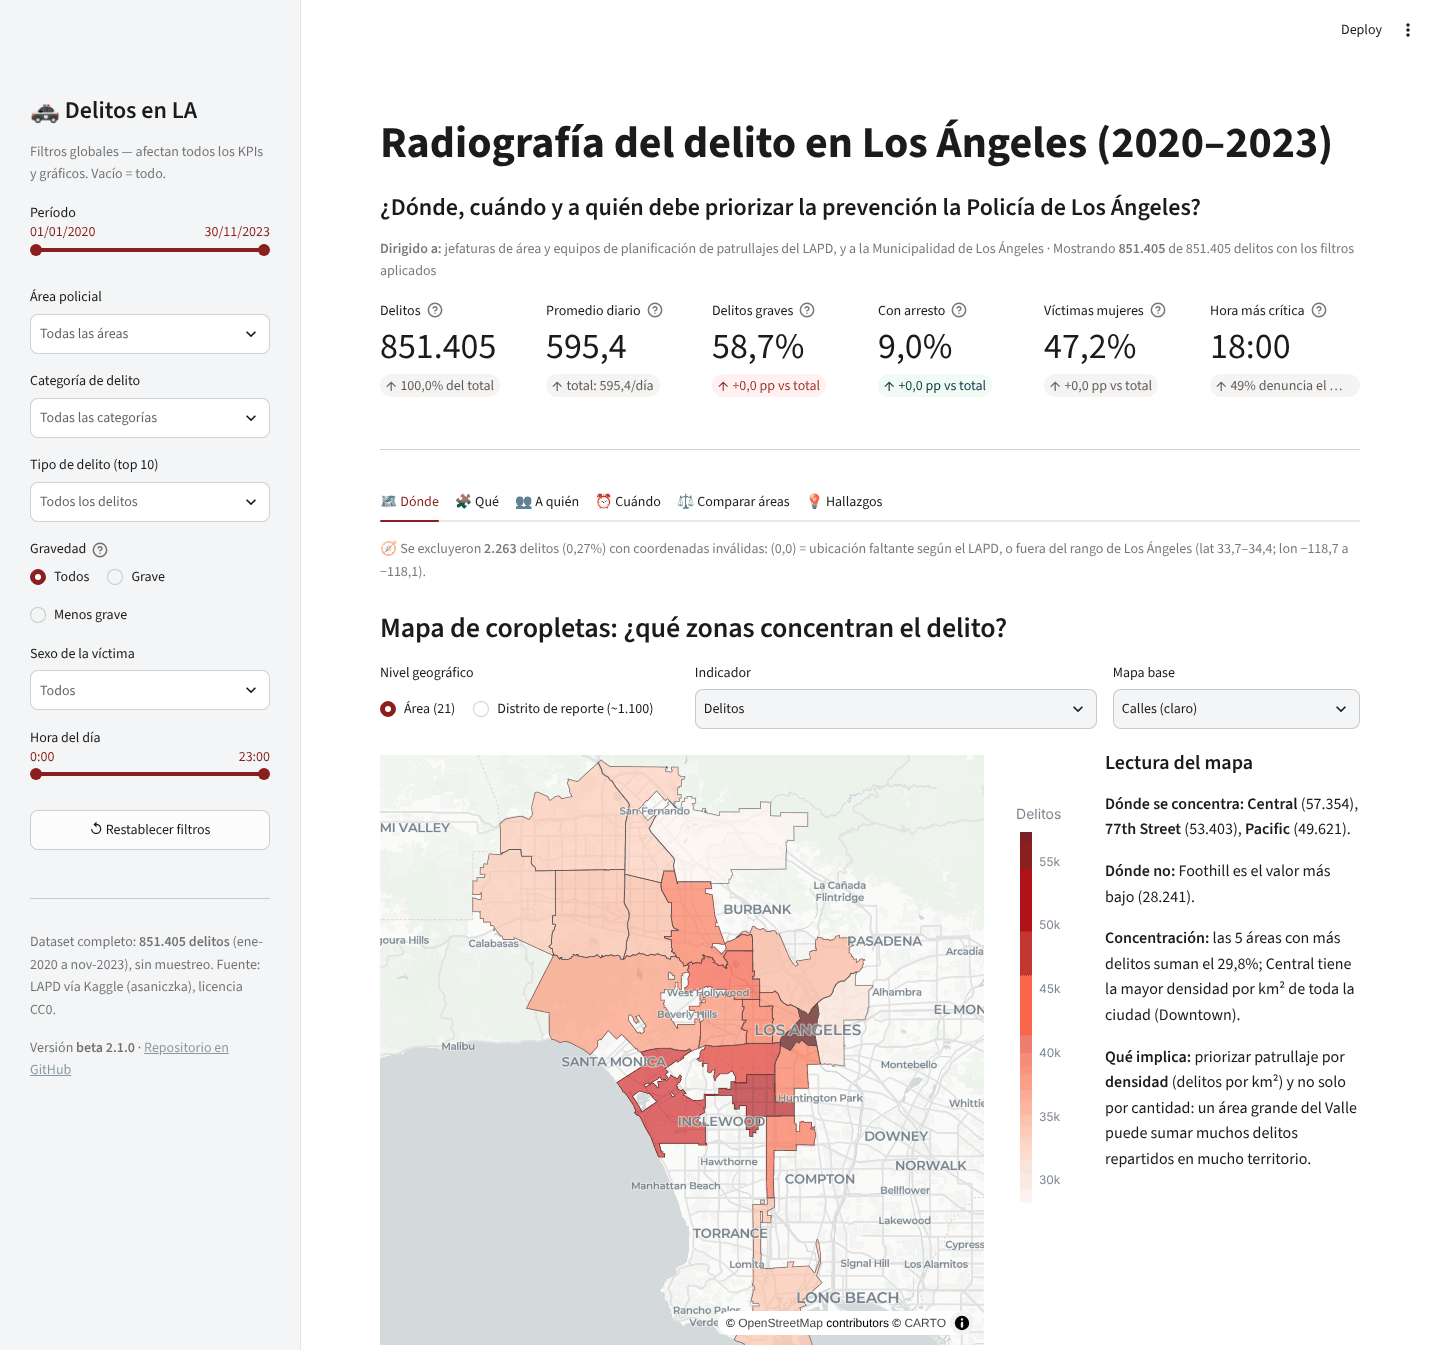
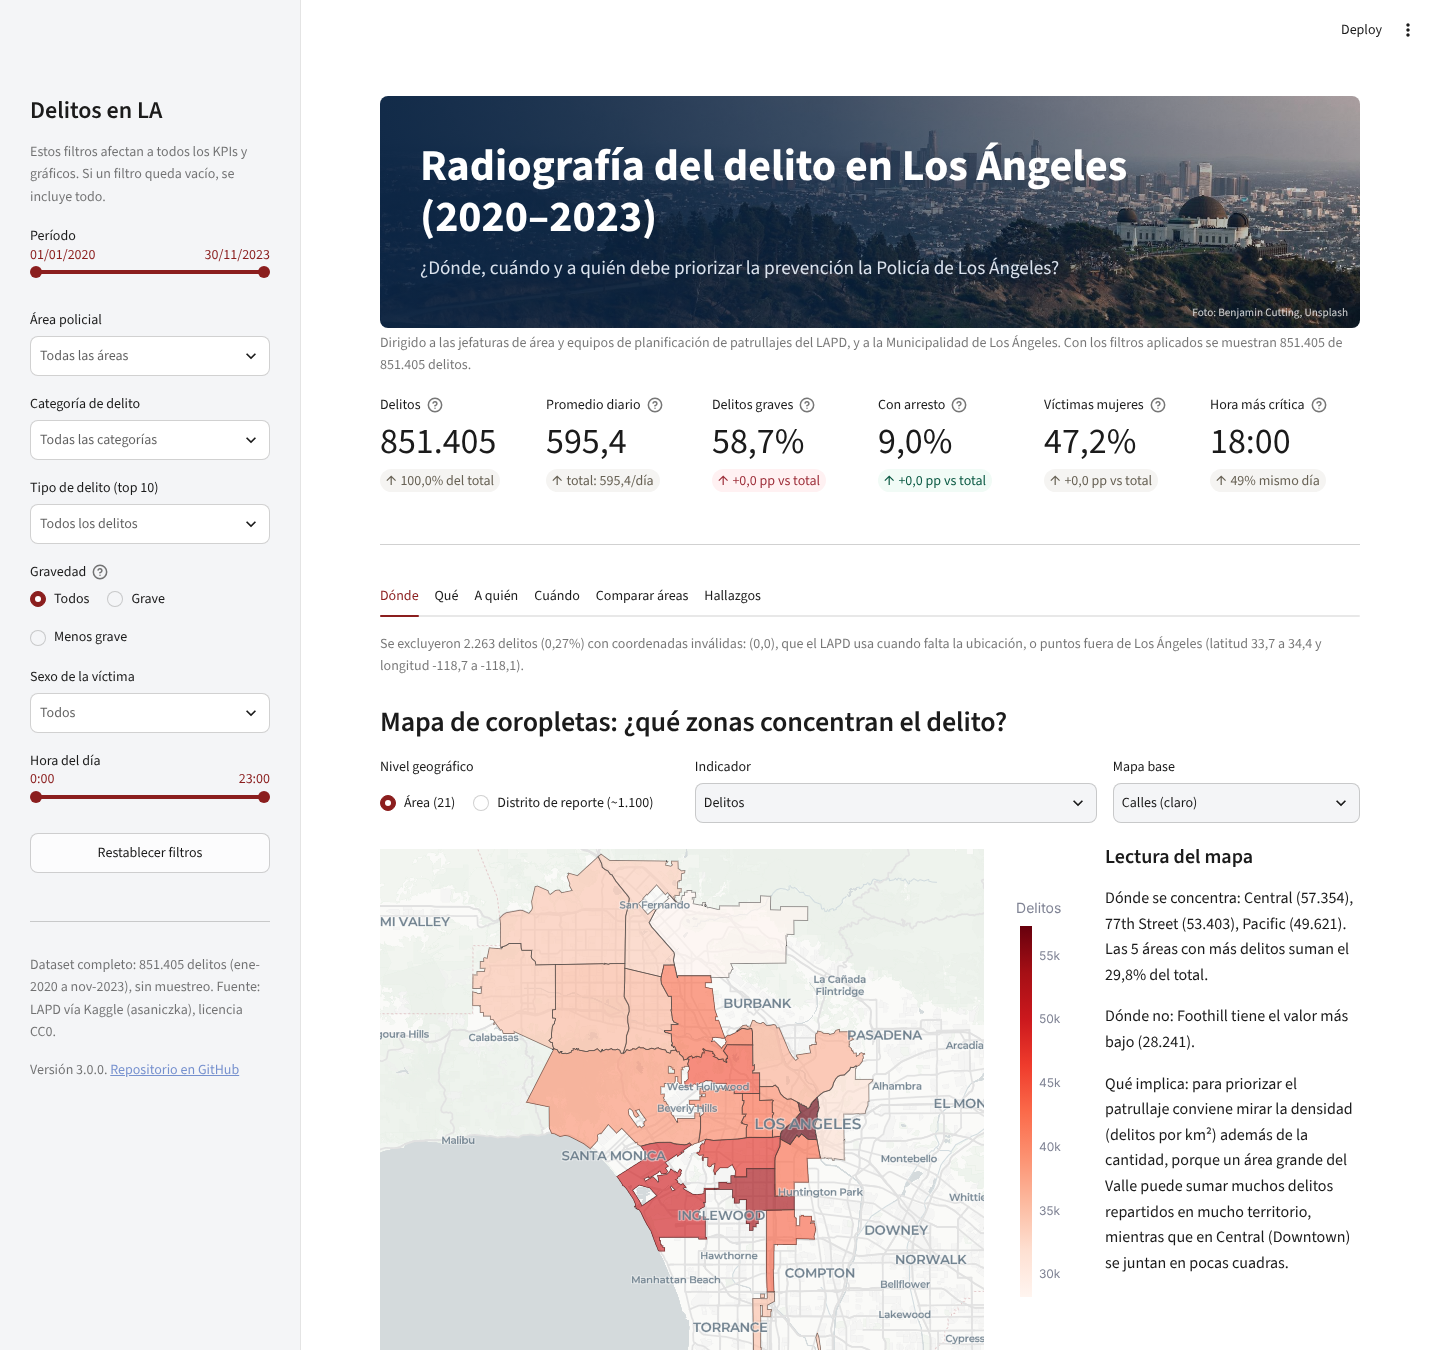
Encabezado con foto de Los Ángeles y captura nueva del README
- Banner con foto del Observatorio Griffith y el centro de LA (Benjamin Cutting, Unsplash)
- La foto se sirve desde static/ con enableStaticServing en .streamlit/config.toml
- README: crédito de la foto, carpeta static/ y captura sin emojis

diff --git a/delitos_app.py b/delitos_app.py
@@ -359,8 +359,16 @@ if areas:
 dff = df[mask]  # dff = "dataframe filtrado"
 
 # ── 6. ENCABEZADO ─────────────────────────────────────────────
-st.title("Radiografía del delito en Los Ángeles (2020–2023)")
-st.markdown("#### ¿Dónde, cuándo y a quién debe priorizar la prevención la Policía de Los Ángeles?")
+# Banner con una foto de Los Ángeles (Observatorio Griffith y el centro de fondo).
+# La imagen está en static/banner_la.jpg; Streamlit la sirve en "app/static/..." porque
+# .streamlit/config.toml tiene enableStaticServing = true. Foto: Benjamin Cutting, Unsplash.
+st.markdown("""
+<div style="background-image: linear-gradient(90deg, rgba(11,37,69,.92) 0%, rgba(11,37,69,.7) 45%, rgba(11,37,69,.15) 100%), url('app/static/banner_la.jpg'); background-size: cover; background-position: center; border-radius: 8px; padding: 44px 40px; position: relative; margin-bottom: 4px">
+<h1 style="color: white; margin: 0; padding: 0; max-width: 720px; line-height: 1.15">Radiografía del delito en Los Ángeles (2020–2023)</h1>
+<p style="color: #dbe3ee; font-size: 1.2rem; margin: 12px 0 0; max-width: 640px">¿Dónde, cuándo y a quién debe priorizar la prevención la Policía de Los Ángeles?</p>
+<span style="position: absolute; right: 12px; bottom: 6px; font-size: 0.7rem; color: rgba(255,255,255,.8)">Foto: Benjamin Cutting, Unsplash</span>
+</div>
+""", unsafe_allow_html=True)
 st.caption("Dirigido a las jefaturas de área y equipos de planificación de patrullajes del LAPD, "
            "y a la Municipalidad de Los Ángeles. "
            f"Con los filtros aplicados se muestran {fmt(len(dff))} de {fmt(len(df))} delitos.")

diff --git a/README.md b/README.md
@@ -22,6 +22,8 @@ El dashboard está pensado para las jefaturas de área y los equipos de planific
 
 ## Qué incluye
 
+Encabezado con una foto de Los Ángeles (el Observatorio Griffith con el centro de fondo) que lleva el título y la pregunta del dashboard.
+
 Filtros globales (panel lateral, afectan a toda la página): período (selector de fechas), área policial, categoría de delito, tipo de delito (top 10), gravedad, sexo de la víctima y hora del día. Si la combinación deja la tabla vacía, la app avisa y se detiene con `st.stop()`. Hay un botón para restablecer los filtros.
 
 6 KPIs con `st.metric`: delitos, promedio diario, % de delitos graves, % con arresto, % de víctimas mujeres y hora más crítica. Cinco de ellos comparan contra el total sin filtros usando `delta`; el de la hora más crítica muestra debajo el % de delitos denunciados el mismo día.
@@ -47,6 +49,7 @@ Todos los gráficos tienen título, ejes con unidad, la misma paleta de colores 
 | Archivo en el repo | `data/delitos_LA_limpio.csv.gz`, el dataset limpio del Certamen 2 completo |
 | Tamaño | 851.405 filas × 13 columnas, 19 MB comprimido |
 | Período | 01-01-2020 al 30-11-2023 (diciembre de 2023 se cortó porque tiene solo 4 días) |
+| Foto del encabezado | [Benjamin Cutting en Unsplash](https://unsplash.com/photos/a-view-of-a-city-from-the-top-of-a-hill-1IVoyMCqYKs), licencia Unsplash (uso gratuito). Recortada y reducida a 1920 × 451 px en `static/banner_la.jpg` |
 
 No se usa muestra para los KPIs ni para los agregados: el CSV limpio pesa 19 MB comprimido en `.gz`, bajo el límite de 25 MB de la pauta, y `pd.read_csv` lo lee directo. Solo los gráficos que dibujan cada fila usan una muestra reproducible con `random_state=42`, para que el navegador no se ponga lento:
 
@@ -79,8 +82,10 @@ radiografia-delito-LA/
 │   └── lapd_distritos.geojson        # ~1.135 distritos de reporte
 ├── img/
 │   └── captura_dashboard.png         # Captura para este README
+├── static/
+│   └── banner_la.jpg                 # Foto del encabezado (Benjamin Cutting, Unsplash)
 ├── .streamlit/
-│   └── config.toml                   # Tema visual (colores del proyecto)
+│   └── config.toml                   # Tema visual y carpeta static/ para la foto
 ├── .gitignore
 └── README.md
 ```
@@ -114,6 +119,7 @@ La app está publicada en Streamlit Community Cloud desde este repositorio (rama
 Retroalimentación del Hito 1:
 
 - Se quitaron los emojis de las pestañas, la barra lateral y los textos, y se reescribieron las lecturas y los hallazgos con un lenguaje más simple.
+- La página se ambientó en Los Ángeles: el encabezado ahora es una foto real de la ciudad con el título encima.
 - El grupo preparó una guía de la estructura del código (qué líneas tienen los KPIs, los filtros y cada gráfico).
 
 Ajustes para cumplir la pauta del Hito 2:
